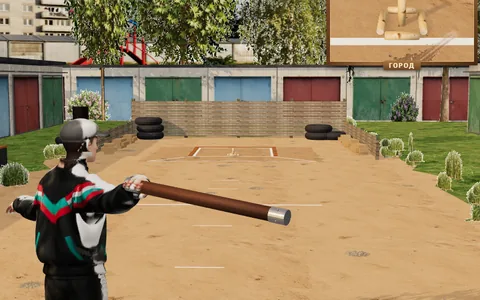
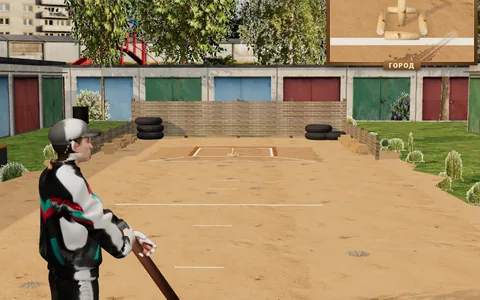
Городки: ключевые позы бросающего — стойка боком с битой в обеих руках, замах с согнутым локтем, выброс плашмя, доводка; превью — стойка

diff --git a/lavochka/src/games/gorodki/people3d.ts b/lavochka/src/games/gorodki/people3d.ts
@@ -94,7 +94,6 @@ function handVerts(model: THREE.Object3D, hand: THREE.Bone | undefined): { mesh:
 
 const smooth = (t: number) => t * t * (3 - 2 * t);
 const lerp = (a: number, b: number, t: number) => a + (b - a) * t;
-const DEG = Math.PI / 180;
 
 interface Person {
   root: THREE.Group;
@@ -113,24 +112,32 @@ interface Person {
   gripAt: THREE.Vector3;
 }
 
-/** Поза броска по фазе: угол кисти вокруг плеча (от «вперёд» по часовой — вправо), высота, закрутка корпуса, наклон, бита. */
-function throwPose(p: number) {
-  // ключи: фаза → [угол кисти, высота кисти, закрутка корпуса, наклон, угол биты относительно руки]
-  const K: [number, number, number, number, number][] = [
-    [0, 25, 0.95, 0, 6],
-    [0.3, 95, 1.12, -32, -4],
-    [0.55, 150, 1.14, -62, -10],
-    [0.62, 60, 1.1, 0, 8],
-    [0.7, -25, 1.08, 38, 14],
-    [0.85, -70, 1.02, 55, 10],
-    [1, 10, 0.95, 10, 4],
-  ];
+type V3 = [number, number, number];
+/** Ключевые позы бросающего: фаза, поворот корпуса к полю (рад, 0 — грудью на город, минус — левым боком),
+ * правая кисть относительно правого плеча в осях тела [вперёд, вправо, вверх] (м), бита [вперёд, вправо, вверх],
+ * левая рука: 0 — на бите, 1 — показывает на город, 2 — опущена в сторону. */
+const KEYS: [number, number, V3, V3, number][] = [
+  // стойка: боком к полю, бита в обеих руках перед собой концом к земле
+  [0, -1.0, [0.3, -0.12, -0.45], [0.55, 0.05, -0.85], 0],
+  // замах: рука с битой уходит назад-вниз за правый бок, локоть согнут, левая показывает на город
+  [0.3, -1.25, [-0.04, 0.24, -0.3], [-0.5, 0.4, -0.65], 1],
+  [0.55, -1.45, [-0.24, 0.17, -0.2], [-0.75, 0.35, -0.5], 1],
+  // выброс: корпус раскручивается, рука идёт сбоку на уровне пояса, бита плашмя
+  [0.62, -0.45, [0.2, 0.42, -0.14], [-0.15, 0.97, -0.08], 2],
+  [0.72, 0.25, [0.45, 0.15, -0.06], [0.6, 0.6, -0.1], 2],
+  // доводка: рука уходит поперёк тела, потом возвращается
+  [0.86, 0.5, [0.35, -0.28, -0.12], [0.6, -0.3, -0.5], 2],
+  [1, -0.7, [0.28, -0.08, -0.42], [0.55, 0.05, -0.85], 0],
+];
+
+function keyPose(ph: number) {
   let i = 0;
-  while (i < K.length - 2 && p > K[i + 1][0]) i++;
-  const [p0, a0, h0, t0, l0] = K[i];
-  const [p1, a1, h1, t1, l1] = K[i + 1];
-  const k = smooth(THREE.MathUtils.clamp((p - p0) / (p1 - p0), 0, 1));
-  return { ang: lerp(a0, a1, k) * DEG, h: lerp(h0, h1, k), twist: lerp(t0, t1, k) * DEG, lean: lerp(l0, l1, k) * DEG };
+  while (i < KEYS.length - 2 && ph > KEYS[i + 1][0]) i++;
+  const a = KEYS[i];
+  const b = KEYS[i + 1];
+  const k = smooth(THREE.MathUtils.clamp((ph - a[0]) / (b[0] - a[0]), 0, 1));
+  const mix = (x: V3, y: V3): V3 => [lerp(x[0], y[0], k), lerp(x[1], y[1], k), lerp(x[2], y[2], k)];
+  return { yaw: lerp(a[1], b[1], k), hand: mix(a[2], b[2]), bat: mix(a[3], b[3]), left: [a[4], b[4], k] as const };
 }
 
 export class Crowd {
@@ -243,7 +250,7 @@ export class Crowd {
       // где стоит: бросающий — у черты вполоборота, трое ждущих сидят на лавочке, остальные стоят рядом
       if (thr) {
         p.root.position.set(this.thrower.x - 0.4, 0, -(this.thrower.line - 0.3));
-        p.root.rotation.y = Math.PI + (this.phase == null ? 0.28 : 0);
+        p.root.rotation.y = Math.PI + keyPose(this.phase ?? 0).yaw;
       } else {
         const k = bench++;
         if (k < 3) {
@@ -285,50 +292,43 @@ export class Crowd {
         if (p.waveT > 1.6) p.waveT = -1;
       }
       if (p.waveT >= 0 && R) this.posCheer(p, sit);
-      else if (thr && R && this.phase != null) this.posThrow(p);
+      else if (thr && R) this.posThrow(p);
       else if (R) this.posHold(p, thr);
       p.bat.visible = !thr || this.phase == null || this.phase < 0.62;
     }
   }
 
-  /** Кисть на дуге вокруг правого плеча, корпус закручен. */
+  /** Бросающий: правая кисть и бита — по ключевым позам в осях тела, левая — на бите, показывает на город или опущена. */
   private posThrow(p: Person) {
     const b = p.bones;
     const ph = this.phase ?? 0;
-    const pose = throwPose(this.phase == null ? 0 : ph);
+    const k = keyPose(ph);
     const yaw = p.root.rotation.y;
-    // закрутка корпуса вокруг вертикали и наклон вперёд
-    if (b.hips) rotateWorld(b.hips, _q.setFromAxisAngle(UP, pose.twist * 0.25));
-    if (b.spine) rotateWorld(b.spine, _q.setFromAxisAngle(UP, pose.twist * 0.5));
-    if (b.spine) {
-      const side = _a.set(1, 0, 0).applyAxisAngle(UP, yaw).normalize();
-      rotateWorld(b.spine, _q.setFromAxisAngle(side, -pose.lean * 0.5));
-    }
+    const bf = new THREE.Vector3(0, 0, 1).applyAxisAngle(UP, yaw);
+    const br = new THREE.Vector3(-1, 0, 0).applyAxisAngle(UP, yaw);
+    const body = (v: V3) => new THREE.Vector3().addScaledVector(bf, v[0]).addScaledVector(br, v[1]).addScaledVector(UP, v[2]);
+    // наклон вперёд на выбросе
+    if (b.spine) rotateWorld(b.spine, _q.setFromAxisAngle(br, ph > 0.55 && ph < 0.95 ? 0.18 : 0.06));
     const sh = wpos(b.upper_armR, new THREE.Vector3());
-    // «вперёд» персонажа в мире: −z при yaw = π
-    const fwd = new THREE.Vector3(0, 0, 1).applyAxisAngle(UP, yaw);
-    const right = new THREE.Vector3(-1, 0, 0).applyAxisAngle(UP, yaw);
-    // руки у гопника короткие: дуга — на длину руки, высота — от плеча
-    const reach = (boneLen(b.upper_armR, b.forearmR) + boneLen(b.forearmR, b.handR)) * 0.96;
-    const dir = fwd.clone().multiplyScalar(Math.cos(pose.ang)).addScaledVector(right, Math.sin(pose.ang));
-    const target = sh.clone().addScaledVector(dir, reach);
-    target.y = sh.y + (pose.h - 1.12) * 0.8;
-    ik2(b.upper_armR, b.forearmR, b.handR, target, new THREE.Vector3(0, -1, 0).addScaledVector(fwd, -0.3));
-    // левая рука — для равновесия
-    if (b.upper_armL && b.handL) {
-      const shl = wpos(b.upper_armL, new THREE.Vector3());
-      const left = right.clone().negate();
-      const tl = shl.clone().addScaledVector(left, 0.28).addScaledVector(fwd, 0.18 + Math.sin(pose.ang) * 0.12);
-      tl.y = shl.y - 0.22;
-      ik2(b.upper_armL, b.forearmL, b.handL, tl, new THREE.Vector3(0, -1, 0));
-    }
-    // бита: рукоять в кисти, тело — вбок от дуги (плашмя, по касательной назад)
-    // бита — продолжение руки, чуть отстаёт от движения кисти по дуге
-    const along = fwd.clone().multiplyScalar(-Math.sin(pose.ang)).addScaledVector(right, Math.cos(pose.ang)); // d(dir)/d(угол)
-    const batDir = dir.clone().addScaledVector(along, ph < 0.55 ? -0.35 : 0.45).normalize();
-    batDir.y -= 0.08;
-    batDir.normalize();
+    const target = sh.clone().add(body(k.hand));
+    // локоть — назад и вниз: рука сгибается, а не торчит палкой
+    ik2(b.upper_armR, b.forearmR, b.handR, target, body([-0.15, 0.45, -1]));
+    const batDir = body(k.bat).normalize();
     this.hold(p, batDir);
+    // левая рука: смесь двух соседних положений
+    if (b.upper_armL && b.forearmL && b.handL) {
+      const shl = wpos(b.upper_armL, new THREE.Vector3());
+      const city = new THREE.Vector3(0, 0, -1);
+      const spot = (m: number) =>
+        m === 0
+          ? p.gripAt.clone().addScaledVector(batDir, 0.11)
+          : m === 1
+            ? shl.clone().addScaledVector(city, 0.42).add(new THREE.Vector3(0, -0.22, 0))
+            : shl.clone().addScaledVector(br, -0.14).addScaledVector(bf, 0.08).add(new THREE.Vector3(0, -0.5, 0));
+      const [m0, m1, t] = k.left;
+      const tl = spot(m0).lerp(spot(m1), t);
+      ik2(b.upper_armL, b.forearmL, b.handL, tl, body([-0.6, -0.4, -0.5]));
+    }
   }
 
   /** Дыхание и лёгкое покачивание. */
@@ -403,16 +403,18 @@ export class Crowd {
     p.bat.position.copy(p.root.position).setY(0.42).addScaledVector(fwd, 0.25).add(new THREE.Vector3(0, 0, 0).addScaledVector(new THREE.Vector3(1, 0, 0).applyAxisAngle(UP, yaw), 0.3));
   }
 
-  /** Бросающий стоит в шаг: левая нога чуть вперёд, правая отставлена. */
+  /** Бросающий стоит широко, ноги в шаг вдоль линии броска (корпус боком к полю). */
   private posStep(p: Person) {
     const b = p.bones;
     if (!b.thighL || !b.thighR) return;
     const yaw = p.root.rotation.y;
-    const side = new THREE.Vector3(1, 0, 0).applyAxisAngle(UP, yaw);
-    const k = this.phase == null ? 1 : this.phase < 0.55 ? 1 - this.phase * 0.6 : 1.3;
-    rotateWorld(b.thighL, _q.setFromAxisAngle(side, -0.2 * k));
-    rotateWorld(b.thighR, _q.setFromAxisAngle(side, 0.16 * k));
-    if (b.shinR) rotateWorld(b.shinR, _q.setFromAxisAngle(side, -0.1 * k));
+    const bf = new THREE.Vector3(0, 0, 1).applyAxisAngle(UP, yaw);
+    const ph = this.phase ?? 0;
+    const k = ph > 0.55 && ph < 0.95 ? 1.25 : 1;
+    rotateWorld(b.thighL, _q.setFromAxisAngle(bf, -0.17 * k));
+    rotateWorld(b.thighR, _q.setFromAxisAngle(bf, 0.15 * k));
+    if (b.shinL) rotateWorld(b.shinL, _q.setFromAxisAngle(bf, 0.05 * k));
+    if (b.shinR) rotateWorld(b.shinR, _q.setFromAxisAngle(bf, -0.05 * k));
   }
 
   /** Радость: руки вверх, подпрыгнуть (сидя — без прыжка). */

diff --git a/lavochka/src/games/gorodki/view.ts b/lavochka/src/games/gorodki/view.ts
@@ -186,7 +186,7 @@ export function createView(): GameView<State, Event> {
     raf = requestAnimationFrame(frame);
     if ((dbgPose != null || v?.shot) && v) {
       yard.thrower = { seat: v.seats[0], x: 0, line: -13 };
-      const ph = dbgPose != null ? Number(dbgPose) : 0.48;
+      const ph = dbgPose != null ? Number(dbgPose) : NaN;
       yard.phase = Number.isFinite(ph) ? ph : null;
     }
     const dt = Math.min(0.05, (now - (last || now)) / 1000);
@@ -422,10 +422,10 @@ export function createView(): GameView<State, Event> {
       v = s;
       showState(s);
       if (s.shot && dbgPose == null) {
-        // превью карточки: замах у кона, город — в лупе
+        // превью карточки: стойка у кона с битой в обеих руках, город — в лупе
         hud.style.display = 'none';
         yard.thrower = { seat: s.seats[0], x: 0, line: -13 };
-        yard.phase = 0.48;
+        yard.phase = null;
         yard.camTo('aim');
         yard.snapCam();
       }
